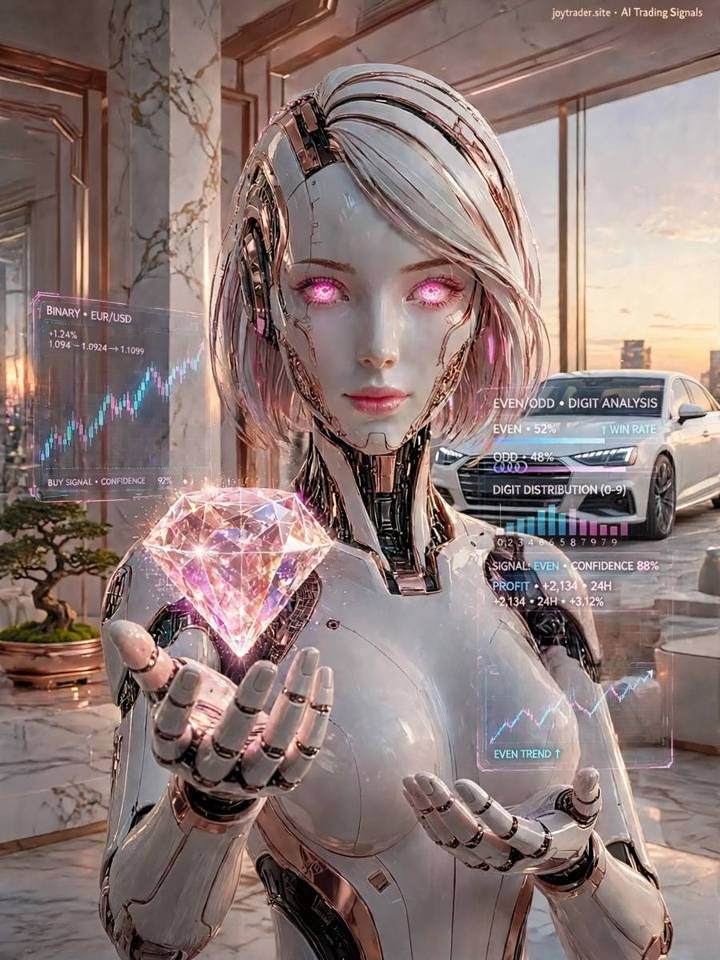
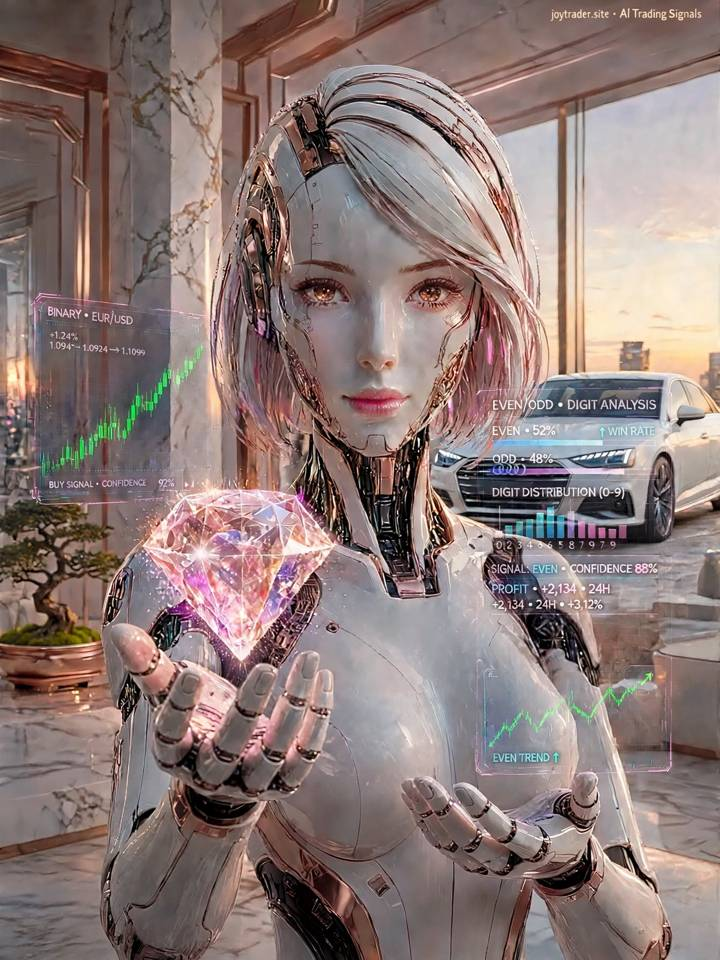
Preview: new Even/Odd girl robot
Claude-Session: https://claude.ai/code/session_01GLnqzZXyDLppqdtexAd7cr

diff --git a/signals.html b/signals.html
@@ -129,7 +129,7 @@ details .inner{display:flex;flex-direction:column;gap:12px;padding-top:12px}
 #cards{display:flex;flex-direction:column;gap:14px}
 .card{--fg:#F1F5F9;--muted:#CBD5E1;--surface:rgba(8,14,22,.55);--raise:rgba(255,255,255,.10);--line:rgba(255,255,255,.20);color:var(--fg);background:linear-gradient(rgba(6,12,20,.34),rgba(6,12,20,.64)),url(img/robot-amg.jpg) center 22%/cover;border:1px solid var(--line);border-radius:16px;padding:14px;display:flex;flex-direction:column;gap:12px;box-shadow:var(--shadow);min-width:0}
 .card{text-shadow:0 1px 3px rgba(0,0,0,.75)}
-.card.eo{background-image:linear-gradient(rgba(6,12,20,.34),rgba(6,12,20,.64)),url(img/robot-girl.jpg);background-position:center 30%}
+.card.eo{background-image:linear-gradient(rgba(6,12,20,.34),rgba(6,12,20,.64)),url(img/robot-girl.jpg);background-position:center 38%}
 .card.dm{background-image:linear-gradient(rgba(6,12,20,.34),rgba(6,12,20,.64)),url(img/robot-blue.jpg);background-position:center 22%}
 .card.sig{border-color:var(--accent)}
 .ch{display:flex;justify-content:space-between;align-items:baseline;gap:8px}
